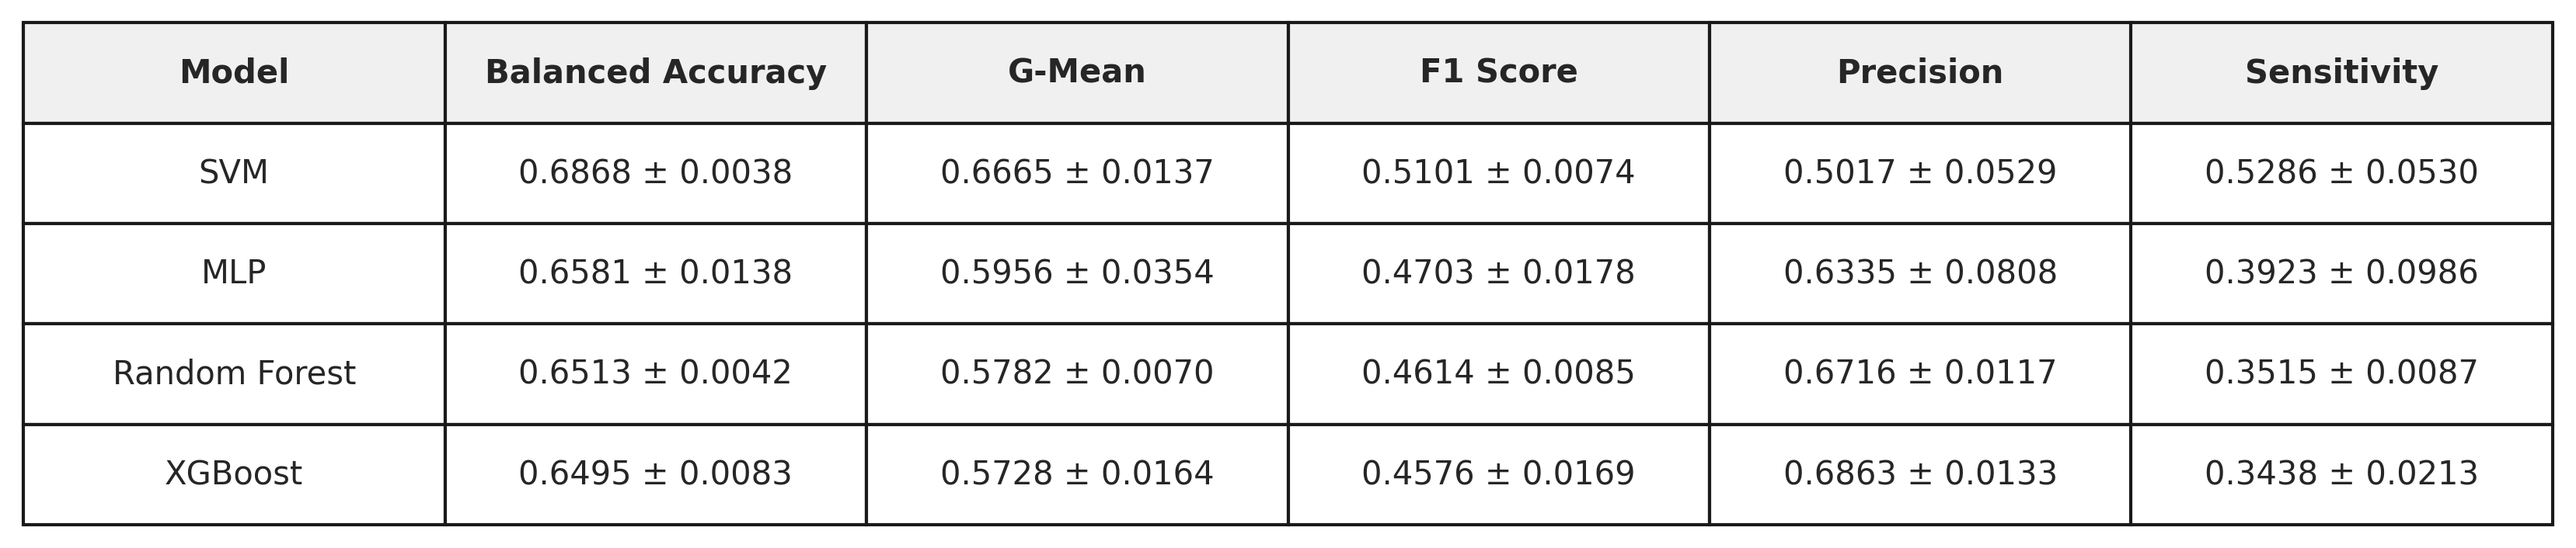
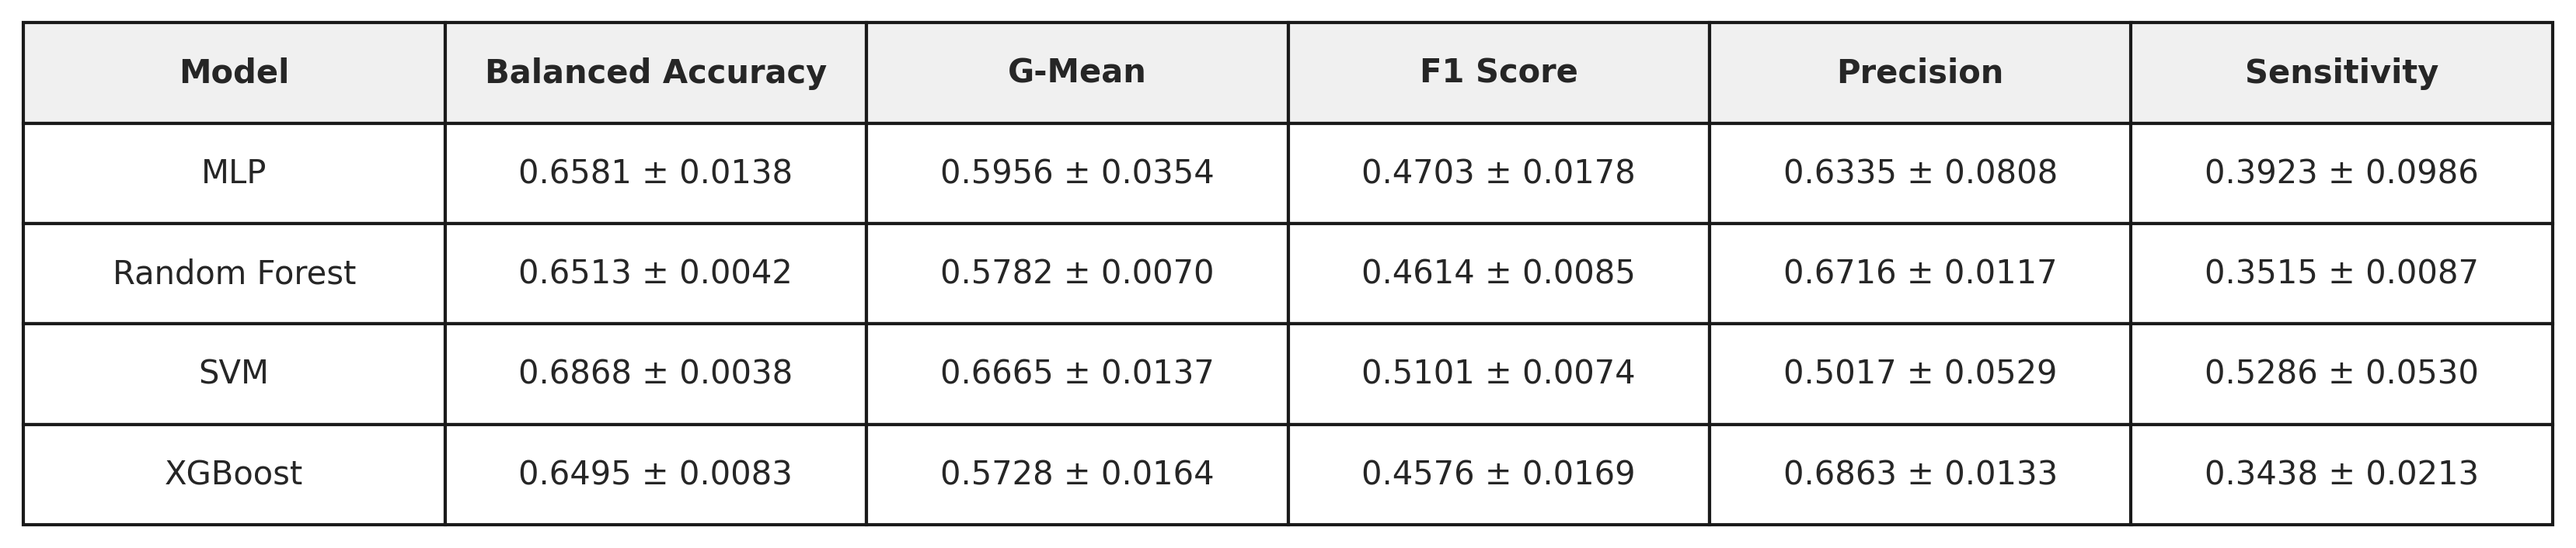
gerar tabelas em latex e ordenar pelo nome do modelo

diff --git a/experimentos/reports/pt_BR/taiwan_credit/results_summary.tex b/experimentos/reports/pt_BR/taiwan_credit/results_summary.tex
@@ -1,0 +1,27 @@
+\begin{tabular}{llccccc}
+\toprule
+Modelo & Técnica & Acurácia Balanceada & G-Mean & F1 Score & Precisão & Sensibilidade \\
+\midrule
+MLP & Linha de Base & 0.6542 $\pm$ 0.0077 & 0.5852 $\pm$ 0.0147 & 0.4666 $\pm$ 0.0149 & 0.6573 $\pm$ 0.0158 & 0.3623 $\pm$ 0.0199 \\
+MLP & Meta Cost & 0.6581 $\pm$ 0.0138 & 0.5956 $\pm$ 0.0354 & 0.4703 $\pm$ 0.0178 & 0.6335 $\pm$ 0.0808 & 0.3923 $\pm$ 0.0986 \\
+MLP & RUS & 0.7045 $\pm$ 0.0046 & 0.6983 $\pm$ 0.0056 & 0.5259 $\pm$ 0.0062 & 0.4611 $\pm$ 0.0122 & 0.6128 $\pm$ 0.0164 \\
+MLP & SMOTE & 0.6972 $\pm$ 0.0048 & 0.6940 $\pm$ 0.0052 & 0.5119 $\pm$ 0.0065 & 0.4301 $\pm$ 0.0121 & 0.6331 $\pm$ 0.0175 \\
+MLP & SMOTE Tomek & 0.6950 $\pm$ 0.0062 & 0.6912 $\pm$ 0.0069 & 0.5099 $\pm$ 0.0082 & 0.4314 $\pm$ 0.0132 & 0.6244 $\pm$ 0.0205 \\
+Random Forest & Linha de Base & 0.6520 $\pm$ 0.0047 & 0.5795 $\pm$ 0.0081 & 0.4628 $\pm$ 0.0095 & 0.6714 $\pm$ 0.0112 & 0.3532 $\pm$ 0.0102 \\
+Random Forest & Meta Cost & 0.6513 $\pm$ 0.0042 & 0.5782 $\pm$ 0.0070 & 0.4614 $\pm$ 0.0085 & 0.6716 $\pm$ 0.0117 & 0.3515 $\pm$ 0.0087 \\
+Random Forest & RUS & 0.7117 $\pm$ 0.0035 & 0.7067 $\pm$ 0.0040 & 0.5349 $\pm$ 0.0051 & 0.4658 $\pm$ 0.0100 & 0.6284 $\pm$ 0.0120 \\
+Random Forest & SMOTE & 0.7020 $\pm$ 0.0050 & 0.6896 $\pm$ 0.0065 & 0.5290 $\pm$ 0.0068 & 0.4930 $\pm$ 0.0087 & 0.5710 $\pm$ 0.0134 \\
+Random Forest & SMOTE Tomek & 0.7029 $\pm$ 0.0042 & 0.6908 $\pm$ 0.0054 & 0.5301 $\pm$ 0.0057 & 0.4932 $\pm$ 0.0073 & 0.5732 $\pm$ 0.0110 \\
+SVM & SMOTE Tomek & 0.7002 $\pm$ 0.0047 & 0.6893 $\pm$ 0.0060 & 0.5246 $\pm$ 0.0062 & 0.4806 $\pm$ 0.0072 & 0.5778 $\pm$ 0.0128 \\
+SVM & SMOTE & 0.7000 $\pm$ 0.0047 & 0.6892 $\pm$ 0.0060 & 0.5245 $\pm$ 0.0062 & 0.4806 $\pm$ 0.0073 & 0.5775 $\pm$ 0.0128 \\
+SVM & RUS & 0.7004 $\pm$ 0.0062 & 0.6867 $\pm$ 0.0080 & 0.5276 $\pm$ 0.0084 & 0.4966 $\pm$ 0.0074 & 0.5629 $\pm$ 0.0153 \\
+SVM & Linha de Base & 0.6247 $\pm$ 0.0048 & 0.5243 $\pm$ 0.0093 & 0.4041 $\pm$ 0.0109 & 0.6942 $\pm$ 0.0125 & 0.2852 $\pm$ 0.0104 \\
+SVM & CSSVM & 0.7010 $\pm$ 0.0060 & 0.6939 $\pm$ 0.0060 & 0.5212 $\pm$ 0.0131 & 0.4573 $\pm$ 0.0413 & 0.6148 $\pm$ 0.0495 \\
+SVM & Meta Cost & 0.6868 $\pm$ 0.0038 & 0.6665 $\pm$ 0.0137 & 0.5101 $\pm$ 0.0074 & 0.5017 $\pm$ 0.0529 & 0.5286 $\pm$ 0.0530 \\
+XGBoost & SMOTE & 0.6987 $\pm$ 0.0056 & 0.6831 $\pm$ 0.0073 & 0.5267 $\pm$ 0.0080 & 0.5039 $\pm$ 0.0089 & 0.5519 $\pm$ 0.0136 \\
+XGBoost & Linha de Base & 0.6512 $\pm$ 0.0085 & 0.5763 $\pm$ 0.0169 & 0.4609 $\pm$ 0.0172 & 0.6829 $\pm$ 0.0146 & 0.3486 $\pm$ 0.0223 \\
+XGBoost & Meta Cost & 0.6495 $\pm$ 0.0083 & 0.5728 $\pm$ 0.0164 & 0.4576 $\pm$ 0.0169 & 0.6863 $\pm$ 0.0133 & 0.3438 $\pm$ 0.0213 \\
+XGBoost & RUS & 0.7102 $\pm$ 0.0041 & 0.7054 $\pm$ 0.0041 & 0.5324 $\pm$ 0.0062 & 0.4621 $\pm$ 0.0104 & 0.6283 $\pm$ 0.0093 \\
+XGBoost & SMOTE Tomek & 0.6991 $\pm$ 0.0043 & 0.6835 $\pm$ 0.0054 & 0.5273 $\pm$ 0.0064 & 0.5045 $\pm$ 0.0108 & 0.5526 $\pm$ 0.0111 \\
+\bottomrule
+\end{tabular}

diff --git a/experimentos/reports/en_US/taiwan_credit/results_summary.tex b/experimentos/reports/en_US/taiwan_credit/results_summary.tex
@@ -1,0 +1,27 @@
+\begin{tabular}{llccccc}
+\toprule
+Model & Technique & Balanced Accuracy & G-Mean & F1 Score & Precision & Sensitivity \\
+\midrule
+MLP & Baseline & 0.6542 $\pm$ 0.0077 & 0.5852 $\pm$ 0.0147 & 0.4666 $\pm$ 0.0149 & 0.6573 $\pm$ 0.0158 & 0.3623 $\pm$ 0.0199 \\
+MLP & Meta Cost & 0.6581 $\pm$ 0.0138 & 0.5956 $\pm$ 0.0354 & 0.4703 $\pm$ 0.0178 & 0.6335 $\pm$ 0.0808 & 0.3923 $\pm$ 0.0986 \\
+MLP & RUS & 0.7045 $\pm$ 0.0046 & 0.6983 $\pm$ 0.0056 & 0.5259 $\pm$ 0.0062 & 0.4611 $\pm$ 0.0122 & 0.6128 $\pm$ 0.0164 \\
+MLP & SMOTE & 0.6972 $\pm$ 0.0048 & 0.6940 $\pm$ 0.0052 & 0.5119 $\pm$ 0.0065 & 0.4301 $\pm$ 0.0121 & 0.6331 $\pm$ 0.0175 \\
+MLP & SMOTE Tomek & 0.6950 $\pm$ 0.0062 & 0.6912 $\pm$ 0.0069 & 0.5099 $\pm$ 0.0082 & 0.4314 $\pm$ 0.0132 & 0.6244 $\pm$ 0.0205 \\
+Random Forest & Baseline & 0.6520 $\pm$ 0.0047 & 0.5795 $\pm$ 0.0081 & 0.4628 $\pm$ 0.0095 & 0.6714 $\pm$ 0.0112 & 0.3532 $\pm$ 0.0102 \\
+Random Forest & Meta Cost & 0.6513 $\pm$ 0.0042 & 0.5782 $\pm$ 0.0070 & 0.4614 $\pm$ 0.0085 & 0.6716 $\pm$ 0.0117 & 0.3515 $\pm$ 0.0087 \\
+Random Forest & RUS & 0.7117 $\pm$ 0.0035 & 0.7067 $\pm$ 0.0040 & 0.5349 $\pm$ 0.0051 & 0.4658 $\pm$ 0.0100 & 0.6284 $\pm$ 0.0120 \\
+Random Forest & SMOTE & 0.7020 $\pm$ 0.0050 & 0.6896 $\pm$ 0.0065 & 0.5290 $\pm$ 0.0068 & 0.4930 $\pm$ 0.0087 & 0.5710 $\pm$ 0.0134 \\
+Random Forest & SMOTE Tomek & 0.7029 $\pm$ 0.0042 & 0.6908 $\pm$ 0.0054 & 0.5301 $\pm$ 0.0057 & 0.4932 $\pm$ 0.0073 & 0.5732 $\pm$ 0.0110 \\
+SVM & SMOTE Tomek & 0.7002 $\pm$ 0.0047 & 0.6893 $\pm$ 0.0060 & 0.5246 $\pm$ 0.0062 & 0.4806 $\pm$ 0.0072 & 0.5778 $\pm$ 0.0128 \\
+SVM & SMOTE & 0.7000 $\pm$ 0.0047 & 0.6892 $\pm$ 0.0060 & 0.5245 $\pm$ 0.0062 & 0.4806 $\pm$ 0.0073 & 0.5775 $\pm$ 0.0128 \\
+SVM & RUS & 0.7004 $\pm$ 0.0062 & 0.6867 $\pm$ 0.0080 & 0.5276 $\pm$ 0.0084 & 0.4966 $\pm$ 0.0074 & 0.5629 $\pm$ 0.0153 \\
+SVM & Baseline & 0.6247 $\pm$ 0.0048 & 0.5243 $\pm$ 0.0093 & 0.4041 $\pm$ 0.0109 & 0.6942 $\pm$ 0.0125 & 0.2852 $\pm$ 0.0104 \\
+SVM & CSSVM & 0.7010 $\pm$ 0.0060 & 0.6939 $\pm$ 0.0060 & 0.5212 $\pm$ 0.0131 & 0.4573 $\pm$ 0.0413 & 0.6148 $\pm$ 0.0495 \\
+SVM & Meta Cost & 0.6868 $\pm$ 0.0038 & 0.6665 $\pm$ 0.0137 & 0.5101 $\pm$ 0.0074 & 0.5017 $\pm$ 0.0529 & 0.5286 $\pm$ 0.0530 \\
+XGBoost & SMOTE & 0.6987 $\pm$ 0.0056 & 0.6831 $\pm$ 0.0073 & 0.5267 $\pm$ 0.0080 & 0.5039 $\pm$ 0.0089 & 0.5519 $\pm$ 0.0136 \\
+XGBoost & Baseline & 0.6512 $\pm$ 0.0085 & 0.5763 $\pm$ 0.0169 & 0.4609 $\pm$ 0.0172 & 0.6829 $\pm$ 0.0146 & 0.3486 $\pm$ 0.0223 \\
+XGBoost & Meta Cost & 0.6495 $\pm$ 0.0083 & 0.5728 $\pm$ 0.0164 & 0.4576 $\pm$ 0.0169 & 0.6863 $\pm$ 0.0133 & 0.3438 $\pm$ 0.0213 \\
+XGBoost & RUS & 0.7102 $\pm$ 0.0041 & 0.7054 $\pm$ 0.0041 & 0.5324 $\pm$ 0.0062 & 0.4621 $\pm$ 0.0104 & 0.6283 $\pm$ 0.0093 \\
+XGBoost & SMOTE Tomek & 0.6991 $\pm$ 0.0043 & 0.6835 $\pm$ 0.0054 & 0.5273 $\pm$ 0.0064 & 0.5045 $\pm$ 0.0108 & 0.5526 $\pm$ 0.0111 \\
+\bottomrule
+\end{tabular}

diff --git a/experimentos/experiments/cli/analysis.py b/experimentos/experiments/cli/analysis.py
@@ -650,11 +650,9 @@ def analyze_results(
                 lambda row: f"{row[mean_col]:.4f} ± {row[std_col]:.4f}", axis=1
             )
 
-        # Sort by Balanced Accuracy (mean) descending
-        sort_col = "accuracy_balanced_mean"
-        if sort_col in summary.columns:
-            summary = summary.sort_values(sort_col, ascending=False)
-            display_df = display_df.iloc[summary.index]
+        # Sort by Model name
+        model_col = _("Model")
+        display_df = display_df.sort_values(by=model_col)
 
         # Print to console
         print(f"\n=== {ds_display} ===")
@@ -667,6 +665,18 @@ def analyze_results(
         output_csv = output_dir_csv / "results_summary.csv"
         display_df.to_csv(output_csv, index=False)
         ctx.logger.success(f"Saved summary table to {output_csv}")
+
+        # Save as LaTeX
+        # Replace ± with $\pm$ for proper math rendering
+        display_df_latex = display_df.replace("±", r"$\\pm$", regex=True)
+        output_latex = output_dir_csv / "results_summary.tex"
+        display_df_latex.to_latex(
+            output_latex,
+            index=False,
+            escape=False,  # Don't escape $ for math mode
+            column_format="ll" + "c" * (len(display_df_latex.columns) - 2),
+        )
+        ctx.logger.success(f"Saved LaTeX table to {output_latex}")
 
         # Save as image
         output_dir_fig = _ensure_output_dir(ctx, ds.id, language, is_figure=True)
@@ -713,6 +723,17 @@ def analyze_results(
             plt.savefig(output_png, bbox_inches="tight", dpi=300)
             plt.close()
             ctx.logger.success(f"Saved summary table image for {tech} to {output_png}")
+
+            # Save per-technique LaTeX table
+            sub_df_latex = sub_df.replace("±", r"$\\pm$", regex=True)
+            output_tex = output_dir_fig / f"results_summary_{safe_tech_name}.tex"
+            sub_df_latex.to_latex(
+                output_tex,
+                index=False,
+                escape=False,
+                column_format="l" + "c" * (len(sub_df_latex.columns) - 1),
+            )
+            ctx.logger.success(f"Saved LaTeX table for {tech} to {output_tex}")
 
 
 @app.command("all")

diff --git a/experimentos/reports/pt_BR/taiwan_credit/figures/results_summary_linha_de_base.tex b/experimentos/reports/pt_BR/taiwan_credit/figures/results_summary_linha_de_base.tex
@@ -1,0 +1,10 @@
+\begin{tabular}{lccccc}
+\toprule
+Modelo & Acurácia Balanceada & G-Mean & F1 Score & Precisão & Sensibilidade \\
+\midrule
+MLP & 0.6542 $\pm$ 0.0077 & 0.5852 $\pm$ 0.0147 & 0.4666 $\pm$ 0.0149 & 0.6573 $\pm$ 0.0158 & 0.3623 $\pm$ 0.0199 \\
+Random Forest & 0.6520 $\pm$ 0.0047 & 0.5795 $\pm$ 0.0081 & 0.4628 $\pm$ 0.0095 & 0.6714 $\pm$ 0.0112 & 0.3532 $\pm$ 0.0102 \\
+SVM & 0.6247 $\pm$ 0.0048 & 0.5243 $\pm$ 0.0093 & 0.4041 $\pm$ 0.0109 & 0.6942 $\pm$ 0.0125 & 0.2852 $\pm$ 0.0104 \\
+XGBoost & 0.6512 $\pm$ 0.0085 & 0.5763 $\pm$ 0.0169 & 0.4609 $\pm$ 0.0172 & 0.6829 $\pm$ 0.0146 & 0.3486 $\pm$ 0.0223 \\
+\bottomrule
+\end{tabular}

diff --git a/experimentos/reports/pt_BR/taiwan_credit/figures/results_summary_meta_cost.tex b/experimentos/reports/pt_BR/taiwan_credit/figures/results_summary_meta_cost.tex
@@ -1,0 +1,10 @@
+\begin{tabular}{lccccc}
+\toprule
+Modelo & Acurácia Balanceada & G-Mean & F1 Score & Precisão & Sensibilidade \\
+\midrule
+MLP & 0.6581 $\pm$ 0.0138 & 0.5956 $\pm$ 0.0354 & 0.4703 $\pm$ 0.0178 & 0.6335 $\pm$ 0.0808 & 0.3923 $\pm$ 0.0986 \\
+Random Forest & 0.6513 $\pm$ 0.0042 & 0.5782 $\pm$ 0.0070 & 0.4614 $\pm$ 0.0085 & 0.6716 $\pm$ 0.0117 & 0.3515 $\pm$ 0.0087 \\
+SVM & 0.6868 $\pm$ 0.0038 & 0.6665 $\pm$ 0.0137 & 0.5101 $\pm$ 0.0074 & 0.5017 $\pm$ 0.0529 & 0.5286 $\pm$ 0.0530 \\
+XGBoost & 0.6495 $\pm$ 0.0083 & 0.5728 $\pm$ 0.0164 & 0.4576 $\pm$ 0.0169 & 0.6863 $\pm$ 0.0133 & 0.3438 $\pm$ 0.0213 \\
+\bottomrule
+\end{tabular}

diff --git a/experimentos/reports/pt_BR/taiwan_credit/figures/results_summary_rus.tex b/experimentos/reports/pt_BR/taiwan_credit/figures/results_summary_rus.tex
@@ -1,0 +1,10 @@
+\begin{tabular}{lccccc}
+\toprule
+Modelo & Acurácia Balanceada & G-Mean & F1 Score & Precisão & Sensibilidade \\
+\midrule
+MLP & 0.7045 $\pm$ 0.0046 & 0.6983 $\pm$ 0.0056 & 0.5259 $\pm$ 0.0062 & 0.4611 $\pm$ 0.0122 & 0.6128 $\pm$ 0.0164 \\
+Random Forest & 0.7117 $\pm$ 0.0035 & 0.7067 $\pm$ 0.0040 & 0.5349 $\pm$ 0.0051 & 0.4658 $\pm$ 0.0100 & 0.6284 $\pm$ 0.0120 \\
+SVM & 0.7004 $\pm$ 0.0062 & 0.6867 $\pm$ 0.0080 & 0.5276 $\pm$ 0.0084 & 0.4966 $\pm$ 0.0074 & 0.5629 $\pm$ 0.0153 \\
+XGBoost & 0.7102 $\pm$ 0.0041 & 0.7054 $\pm$ 0.0041 & 0.5324 $\pm$ 0.0062 & 0.4621 $\pm$ 0.0104 & 0.6283 $\pm$ 0.0093 \\
+\bottomrule
+\end{tabular}

diff --git a/experimentos/reports/pt_BR/taiwan_credit/figures/results_summary_smote.tex b/experimentos/reports/pt_BR/taiwan_credit/figures/results_summary_smote.tex
@@ -1,0 +1,10 @@
+\begin{tabular}{lccccc}
+\toprule
+Modelo & Acurácia Balanceada & G-Mean & F1 Score & Precisão & Sensibilidade \\
+\midrule
+MLP & 0.6972 $\pm$ 0.0048 & 0.6940 $\pm$ 0.0052 & 0.5119 $\pm$ 0.0065 & 0.4301 $\pm$ 0.0121 & 0.6331 $\pm$ 0.0175 \\
+Random Forest & 0.7020 $\pm$ 0.0050 & 0.6896 $\pm$ 0.0065 & 0.5290 $\pm$ 0.0068 & 0.4930 $\pm$ 0.0087 & 0.5710 $\pm$ 0.0134 \\
+SVM & 0.7000 $\pm$ 0.0047 & 0.6892 $\pm$ 0.0060 & 0.5245 $\pm$ 0.0062 & 0.4806 $\pm$ 0.0073 & 0.5775 $\pm$ 0.0128 \\
+XGBoost & 0.6987 $\pm$ 0.0056 & 0.6831 $\pm$ 0.0073 & 0.5267 $\pm$ 0.0080 & 0.5039 $\pm$ 0.0089 & 0.5519 $\pm$ 0.0136 \\
+\bottomrule
+\end{tabular}

diff --git a/experimentos/reports/pt_BR/taiwan_credit/figures/results_summary_smote_tomek.tex b/experimentos/reports/pt_BR/taiwan_credit/figures/results_summary_smote_tomek.tex
@@ -1,0 +1,10 @@
+\begin{tabular}{lccccc}
+\toprule
+Modelo & Acurácia Balanceada & G-Mean & F1 Score & Precisão & Sensibilidade \\
+\midrule
+MLP & 0.6950 $\pm$ 0.0062 & 0.6912 $\pm$ 0.0069 & 0.5099 $\pm$ 0.0082 & 0.4314 $\pm$ 0.0132 & 0.6244 $\pm$ 0.0205 \\
+Random Forest & 0.7029 $\pm$ 0.0042 & 0.6908 $\pm$ 0.0054 & 0.5301 $\pm$ 0.0057 & 0.4932 $\pm$ 0.0073 & 0.5732 $\pm$ 0.0110 \\
+SVM & 0.7002 $\pm$ 0.0047 & 0.6893 $\pm$ 0.0060 & 0.5246 $\pm$ 0.0062 & 0.4806 $\pm$ 0.0072 & 0.5778 $\pm$ 0.0128 \\
+XGBoost & 0.6991 $\pm$ 0.0043 & 0.6835 $\pm$ 0.0054 & 0.5273 $\pm$ 0.0064 & 0.5045 $\pm$ 0.0108 & 0.5526 $\pm$ 0.0111 \\
+\bottomrule
+\end{tabular}

diff --git a/experimentos/reports/en_US/taiwan_credit/figures/results_summary_baseline.tex b/experimentos/reports/en_US/taiwan_credit/figures/results_summary_baseline.tex
@@ -1,0 +1,10 @@
+\begin{tabular}{lccccc}
+\toprule
+Model & Balanced Accuracy & G-Mean & F1 Score & Precision & Sensitivity \\
+\midrule
+MLP & 0.6542 $\pm$ 0.0077 & 0.5852 $\pm$ 0.0147 & 0.4666 $\pm$ 0.0149 & 0.6573 $\pm$ 0.0158 & 0.3623 $\pm$ 0.0199 \\
+Random Forest & 0.6520 $\pm$ 0.0047 & 0.5795 $\pm$ 0.0081 & 0.4628 $\pm$ 0.0095 & 0.6714 $\pm$ 0.0112 & 0.3532 $\pm$ 0.0102 \\
+SVM & 0.6247 $\pm$ 0.0048 & 0.5243 $\pm$ 0.0093 & 0.4041 $\pm$ 0.0109 & 0.6942 $\pm$ 0.0125 & 0.2852 $\pm$ 0.0104 \\
+XGBoost & 0.6512 $\pm$ 0.0085 & 0.5763 $\pm$ 0.0169 & 0.4609 $\pm$ 0.0172 & 0.6829 $\pm$ 0.0146 & 0.3486 $\pm$ 0.0223 \\
+\bottomrule
+\end{tabular}

diff --git a/experimentos/reports/en_US/taiwan_credit/figures/results_summary_meta_cost.tex b/experimentos/reports/en_US/taiwan_credit/figures/results_summary_meta_cost.tex
@@ -1,0 +1,10 @@
+\begin{tabular}{lccccc}
+\toprule
+Model & Balanced Accuracy & G-Mean & F1 Score & Precision & Sensitivity \\
+\midrule
+MLP & 0.6581 $\pm$ 0.0138 & 0.5956 $\pm$ 0.0354 & 0.4703 $\pm$ 0.0178 & 0.6335 $\pm$ 0.0808 & 0.3923 $\pm$ 0.0986 \\
+Random Forest & 0.6513 $\pm$ 0.0042 & 0.5782 $\pm$ 0.0070 & 0.4614 $\pm$ 0.0085 & 0.6716 $\pm$ 0.0117 & 0.3515 $\pm$ 0.0087 \\
+SVM & 0.6868 $\pm$ 0.0038 & 0.6665 $\pm$ 0.0137 & 0.5101 $\pm$ 0.0074 & 0.5017 $\pm$ 0.0529 & 0.5286 $\pm$ 0.0530 \\
+XGBoost & 0.6495 $\pm$ 0.0083 & 0.5728 $\pm$ 0.0164 & 0.4576 $\pm$ 0.0169 & 0.6863 $\pm$ 0.0133 & 0.3438 $\pm$ 0.0213 \\
+\bottomrule
+\end{tabular}

diff --git a/experimentos/reports/en_US/taiwan_credit/figures/results_summary_rus.tex b/experimentos/reports/en_US/taiwan_credit/figures/results_summary_rus.tex
@@ -1,0 +1,10 @@
+\begin{tabular}{lccccc}
+\toprule
+Model & Balanced Accuracy & G-Mean & F1 Score & Precision & Sensitivity \\
+\midrule
+MLP & 0.7045 $\pm$ 0.0046 & 0.6983 $\pm$ 0.0056 & 0.5259 $\pm$ 0.0062 & 0.4611 $\pm$ 0.0122 & 0.6128 $\pm$ 0.0164 \\
+Random Forest & 0.7117 $\pm$ 0.0035 & 0.7067 $\pm$ 0.0040 & 0.5349 $\pm$ 0.0051 & 0.4658 $\pm$ 0.0100 & 0.6284 $\pm$ 0.0120 \\
+SVM & 0.7004 $\pm$ 0.0062 & 0.6867 $\pm$ 0.0080 & 0.5276 $\pm$ 0.0084 & 0.4966 $\pm$ 0.0074 & 0.5629 $\pm$ 0.0153 \\
+XGBoost & 0.7102 $\pm$ 0.0041 & 0.7054 $\pm$ 0.0041 & 0.5324 $\pm$ 0.0062 & 0.4621 $\pm$ 0.0104 & 0.6283 $\pm$ 0.0093 \\
+\bottomrule
+\end{tabular}

diff --git a/experimentos/reports/en_US/taiwan_credit/figures/results_summary_smote.tex b/experimentos/reports/en_US/taiwan_credit/figures/results_summary_smote.tex
@@ -1,0 +1,10 @@
+\begin{tabular}{lccccc}
+\toprule
+Model & Balanced Accuracy & G-Mean & F1 Score & Precision & Sensitivity \\
+\midrule
+MLP & 0.6972 $\pm$ 0.0048 & 0.6940 $\pm$ 0.0052 & 0.5119 $\pm$ 0.0065 & 0.4301 $\pm$ 0.0121 & 0.6331 $\pm$ 0.0175 \\
+Random Forest & 0.7020 $\pm$ 0.0050 & 0.6896 $\pm$ 0.0065 & 0.5290 $\pm$ 0.0068 & 0.4930 $\pm$ 0.0087 & 0.5710 $\pm$ 0.0134 \\
+SVM & 0.7000 $\pm$ 0.0047 & 0.6892 $\pm$ 0.0060 & 0.5245 $\pm$ 0.0062 & 0.4806 $\pm$ 0.0073 & 0.5775 $\pm$ 0.0128 \\
+XGBoost & 0.6987 $\pm$ 0.0056 & 0.6831 $\pm$ 0.0073 & 0.5267 $\pm$ 0.0080 & 0.5039 $\pm$ 0.0089 & 0.5519 $\pm$ 0.0136 \\
+\bottomrule
+\end{tabular}
